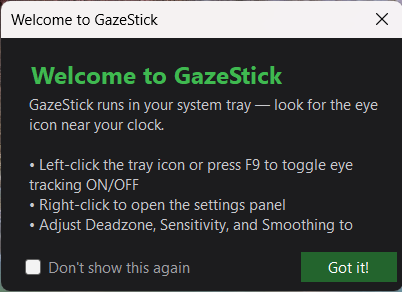
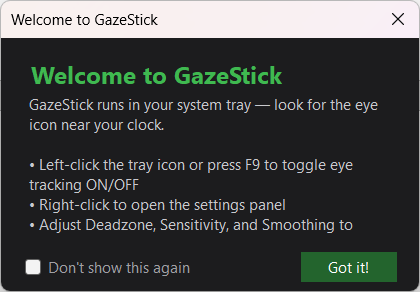
v1.2.1: popup/onboarding padding fixes and hotkey reassign hint

diff --git a/UI/PopupPanel.cs b/UI/PopupPanel.cs
@@ -43,7 +43,7 @@ public sealed class PopupPanel : Form
 
     public bool IsActive { get => _isActive; set { _isActive = value; UpdateState(); } }
     public bool IsBeamConnected { get => _isBeamConnected; set { _isBeamConnected = value; UpdateState(); } }
-    public string HotkeyText { set { _hotkeyButton.Text = value; } }
+    public string HotkeyText { set { _hotkeyButton.Text = $"Toggle hotkey: {value} (click to change)"; } }
     public bool InvertY { get => _invertY; set { _invertY = value; UpdateState(); } }
     public bool AutoStart { get => _autoStart; set { _autoStart = value; UpdateState(); } }
     public CurveType Curve { get => _curve; set { _curve = value; UpdateState(); } }
@@ -64,7 +64,7 @@ public sealed class PopupPanel : Form
     {
         FormBorderStyle = FormBorderStyle.FixedSingle;
         StartPosition = FormStartPosition.Manual;
-        Size = new Size(376, 780);
+        Size = new Size(392, 800);
         MinimumSize = Size;
         MaximumSize = Size;
         BackColor = Color.FromArgb(28, 28, 30);
@@ -124,7 +124,7 @@ public sealed class PopupPanel : Form
         y += 36;
         _autoStartButton = CreateButton("Start with Windows: Off", new Point(16, y), new Size(340, 32), Color.FromArgb(45, 45, 50));
         y += 36;
-        _hotkeyButton = CreateButton("Toggle hotkey: F9", new Point(16, y), new Size(340, 32), Color.FromArgb(45, 45, 50));
+        _hotkeyButton = CreateButton("Toggle hotkey: F9 (click to change)", new Point(16, y), new Size(340, 32), Color.FromArgb(45, 45, 50));
         _invertYButton.Click += (_, _) => { _invertY = !_invertY; UpdateState(); InvertYChanged?.Invoke(_invertY); };
         _hotkeyButton.Click += (_, _) => StartHotkeyCapture();
         _autoStartButton.Click += (_, _) => { _autoStart = !_autoStart; UpdateState(); AutoStartChanged?.Invoke(_autoStart); };
@@ -225,7 +225,7 @@ public sealed class PopupPanel : Form
             if (e.Control) hotkey = "Ctrl+" + hotkey;
             if (e.Shift) hotkey = "Shift+" + hotkey;
             if (e.Alt) hotkey = "Alt+" + hotkey;
-            _hotkeyButton.Text = hotkey;
+            _hotkeyButton.Text = $"Toggle hotkey: {hotkey} (click to change)";
             _awaitingHotkey = false;
             HotkeyChanged?.Invoke(hotkey);
         }

diff --git a/UI/OnboardingForm.cs b/UI/OnboardingForm.cs
@@ -11,7 +11,7 @@ public sealed class OnboardingForm : Form
     public OnboardingForm()
     {
         Text = "Welcome to GazeStick";
-        Size = new Size(420, 300);
+        Size = new Size(436, 300);
         StartPosition = FormStartPosition.CenterScreen;
         FormBorderStyle = FormBorderStyle.FixedDialog;
         MaximizeBox = false;
